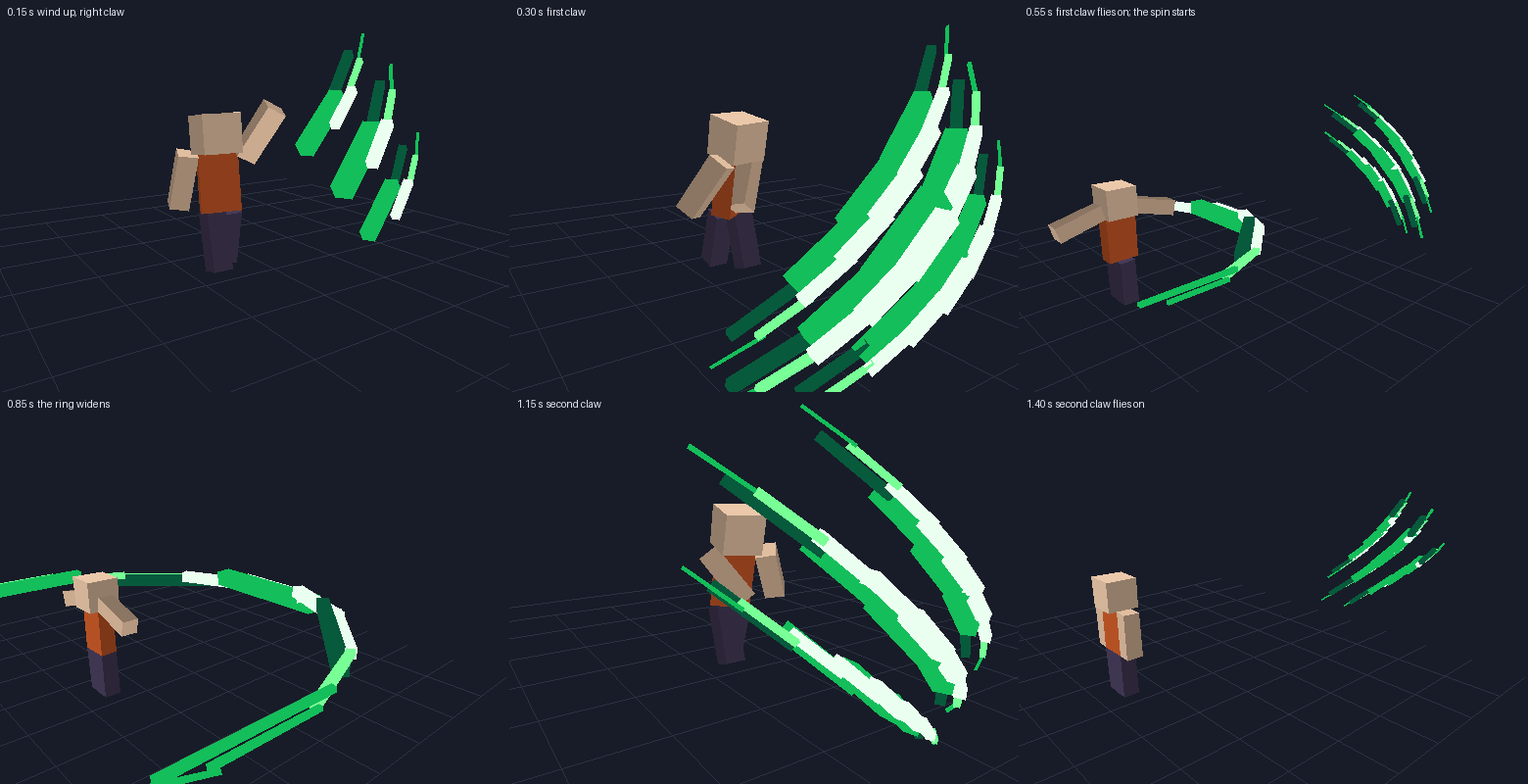
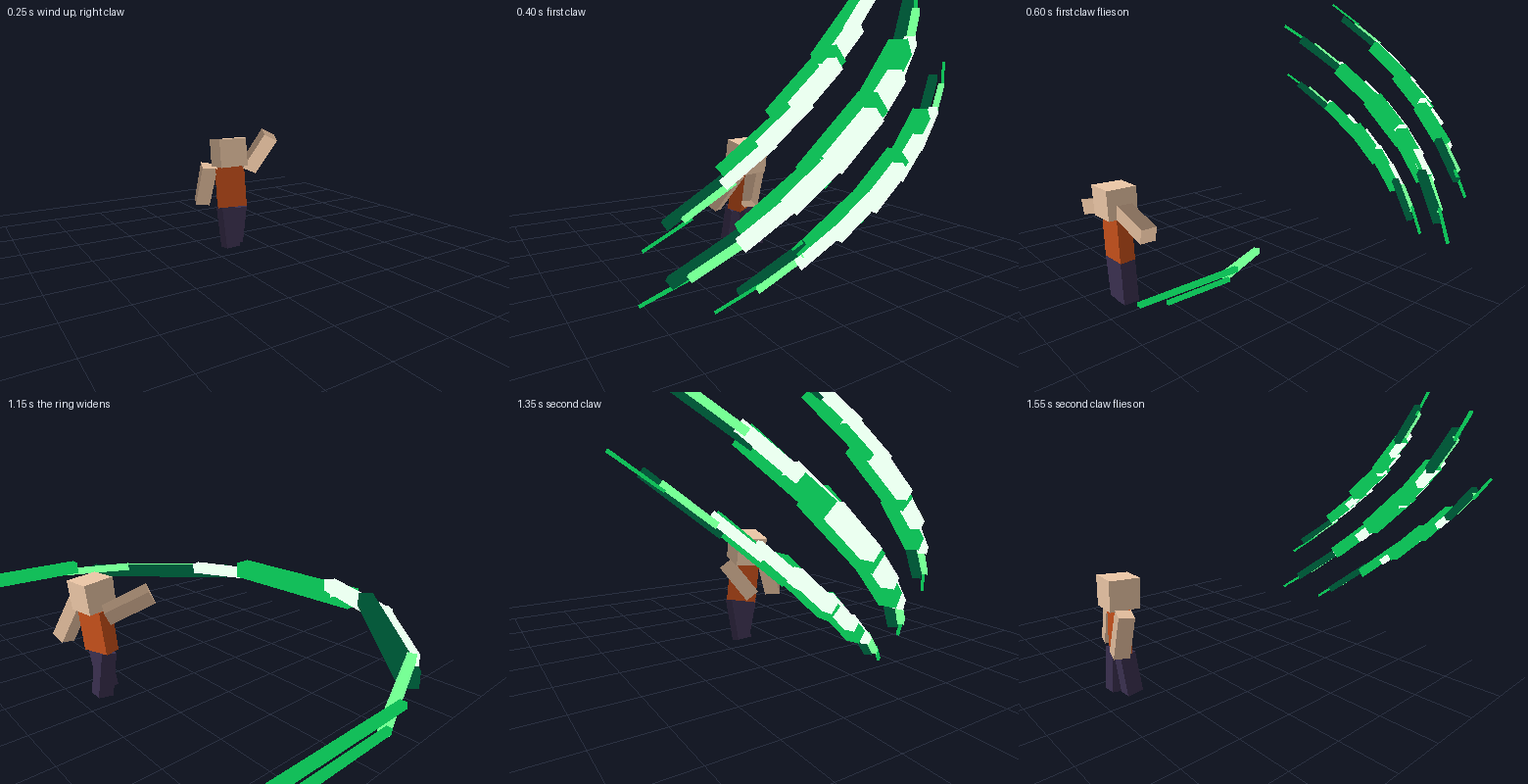
Dragon Claw: slow wind-up, fast strike, held follow-through; slashes 1.6x bigger (slashSize), hang then shoot forward

diff --git a/dragon_claw/animation/animation_only.code_block.js b/dragon_claw/animation/animation_only.code_block.js
@@ -1,46 +1,46 @@
 let playerId = myId
-api.animateEntity(playerId, {"animationDurationMs":150,"loop":false,"nodeAnimations":{"TorsoNode":{"timeline":[{"timeFraction":0,"rotation":[0,0,0]},{"timeFraction":1,"rotation":[-0.1,0.38,0]}]},"HeadMesh":{"timeline":[{"timeFraction":0,"rotation":[0,0,0]},{"timeFraction":1,"rotation":[0,-0.26,0]}]},"ArmRightMesh":{"timeline":[{"timeFraction":0,"rotation":[0,0,0]},{"timeFraction":1,"rotation":[-2.71,0,-0.52]}]},"ArmLeftMesh":{"timeline":[{"timeFraction":0,"rotation":[0,0,0]},{"timeFraction":1,"rotation":[0.35,0,0.21]}]},"LegLeftMesh":{"timeline":[{"timeFraction":0,"rotation":[0,0,0]},{"timeFraction":1,"rotation":[-0.21,0,0]}]},"LegRightMesh":{"timeline":[{"timeFraction":0,"rotation":[0,0,0]},{"timeFraction":1,"rotation":[0.21,0,0]}]}}}, 0, 1)
+api.animateEntity(playerId, {"animationDurationMs":250,"loop":false,"nodeAnimations":{"TorsoNode":{"timeline":[{"timeFraction":0,"rotation":[0,0,0]},{"timeFraction":1,"rotation":[-0.1,0.38,0]}]},"HeadMesh":{"timeline":[{"timeFraction":0,"rotation":[0,0,0]},{"timeFraction":1,"rotation":[0,-0.26,0]}]},"ArmRightMesh":{"timeline":[{"timeFraction":0,"rotation":[0,0,0]},{"timeFraction":1,"rotation":[-2.71,0,-0.52]}]},"ArmLeftMesh":{"timeline":[{"timeFraction":0,"rotation":[0,0,0]},{"timeFraction":1,"rotation":[0.35,0,0.21]}]},"LegLeftMesh":{"timeline":[{"timeFraction":0,"rotation":[0,0,0]},{"timeFraction":1,"rotation":[-0.21,0,0]}]},"LegRightMesh":{"timeline":[{"timeFraction":0,"rotation":[0,0,0]},{"timeFraction":1,"rotation":[0.21,0,0]}]}}}, 0, 1)
 
 addAnimation((speed) => {
     api.animateEntity(playerId, {"animationDurationMs":100,"loop":false,"nodeAnimations":{"TorsoNode":{"timeline":[{"timeFraction":0,"rotation":[-0.1,0.38,0]},{"timeFraction":1,"rotation":[0.24,-0.49,0]}]},"HeadMesh":{"timeline":[{"timeFraction":0,"rotation":[0,-0.26,0]},{"timeFraction":1,"rotation":[0,0.35,0]}]},"ArmRightMesh":{"timeline":[{"timeFraction":0,"rotation":[-2.71,0,-0.52]},{"timeFraction":1,"rotation":[-0.7,0,0.87]}]},"ArmLeftMesh":{"timeline":[{"timeFraction":0,"rotation":[0.35,0,0.21]},{"timeFraction":1,"rotation":[0.52,0,0.26]}]},"LegLeftMesh":{"timeline":[{"timeFraction":0,"rotation":[-0.21,0,0]},{"timeFraction":1,"rotation":[0.31,0,0]}]},"LegRightMesh":{"timeline":[{"timeFraction":0,"rotation":[0.21,0,0]},{"timeFraction":1,"rotation":[-0.31,0,0]}]}}}, 0, speed)
-}, 150, 1)
-
-addAnimation((speed) => {
-    api.animateEntity(playerId, {"animationDurationMs":150,"loop":false,"nodeAnimations":{"TorsoNode":{"timeline":[{"timeFraction":0,"rotation":[0.24,-0.49,0]},{"timeFraction":1,"rotation":[0.17,-0.66,0]}]},"HeadMesh":{"timeline":[{"timeFraction":0,"rotation":[0,0.35,0]},{"timeFraction":1,"rotation":[0,0.44,0]}]},"ArmRightMesh":{"timeline":[{"timeFraction":0,"rotation":[-0.7,0,0.87]},{"timeFraction":1,"rotation":[0.26,0,0.61]}]},"ArmLeftMesh":{"timeline":[{"timeFraction":0,"rotation":[0.52,0,0.26]},{"timeFraction":1,"rotation":[0.17,0,0.35]}]},"LegLeftMesh":{"timeline":[{"timeFraction":0,"rotation":[0.31,0,0]},{"timeFraction":1,"rotation":[0.31,0,0]}]},"LegRightMesh":{"timeline":[{"timeFraction":0,"rotation":[-0.31,0,0]},{"timeFraction":1,"rotation":[-0.31,0,0]}]}}}, 0, speed)
 }, 250, 1)
 
 addAnimation((speed) => {
-    api.animateEntity(playerId, {"animationDurationMs":50,"loop":false,"nodeAnimations":{"TorsoNode":{"timeline":[{"timeFraction":0,"rotation":[0.17,-0.66,0]},{"timeFraction":1,"rotation":[0,0,0]}]},"HeadMesh":{"timeline":[{"timeFraction":0,"rotation":[0,0.44,0]},{"timeFraction":1,"rotation":[0,0,0]}]},"ArmRightMesh":{"timeline":[{"timeFraction":0,"rotation":[0.26,0,0.61]},{"timeFraction":1,"rotation":[0,0,-1.31]}]},"ArmLeftMesh":{"timeline":[{"timeFraction":0,"rotation":[0.17,0,0.35]},{"timeFraction":1,"rotation":[0,0,1.31]}]},"LegLeftMesh":{"timeline":[{"timeFraction":0,"rotation":[0.31,0,0]},{"timeFraction":1,"rotation":[0,0,0]}]},"LegRightMesh":{"timeline":[{"timeFraction":0,"rotation":[-0.31,0,0]},{"timeFraction":1,"rotation":[0,0,0]}]}}}, 0, speed)
-}, 400, 1)
+    api.animateEntity(playerId, {"animationDurationMs":150,"loop":false,"nodeAnimations":{"TorsoNode":{"timeline":[{"timeFraction":0,"rotation":[0.24,-0.49,0]},{"timeFraction":1,"rotation":[0.17,-0.66,0]}]},"HeadMesh":{"timeline":[{"timeFraction":0,"rotation":[0,0.35,0]},{"timeFraction":1,"rotation":[0,0.44,0]}]},"ArmRightMesh":{"timeline":[{"timeFraction":0,"rotation":[-0.7,0,0.87]},{"timeFraction":1,"rotation":[0.26,0,0.61]}]},"ArmLeftMesh":{"timeline":[{"timeFraction":0,"rotation":[0.52,0,0.26]},{"timeFraction":1,"rotation":[0.17,0,0.35]}]},"LegLeftMesh":{"timeline":[{"timeFraction":0,"rotation":[0.31,0,0]},{"timeFraction":1,"rotation":[0.31,0,0]}]},"LegRightMesh":{"timeline":[{"timeFraction":0,"rotation":[-0.31,0,0]},{"timeFraction":1,"rotation":[-0.31,0,0]}]}}}, 0, speed)
+}, 350, 1)
+
+addAnimation((speed) => {
+    api.animateEntity(playerId, {"animationDurationMs":100,"loop":false,"nodeAnimations":{"TorsoNode":{"timeline":[{"timeFraction":0,"rotation":[0.17,-0.66,0]},{"timeFraction":1,"rotation":[0,0,0]}]},"HeadMesh":{"timeline":[{"timeFraction":0,"rotation":[0,0.44,0]},{"timeFraction":1,"rotation":[0,0,0]}]},"ArmRightMesh":{"timeline":[{"timeFraction":0,"rotation":[0.26,0,0.61]},{"timeFraction":1,"rotation":[0,0,-1.31]}]},"ArmLeftMesh":{"timeline":[{"timeFraction":0,"rotation":[0.17,0,0.35]},{"timeFraction":1,"rotation":[0,0,1.31]}]},"LegLeftMesh":{"timeline":[{"timeFraction":0,"rotation":[0.31,0,0]},{"timeFraction":1,"rotation":[0,0,0]}]},"LegRightMesh":{"timeline":[{"timeFraction":0,"rotation":[-0.31,0,0]},{"timeFraction":1,"rotation":[0,0,0]}]}}}, 0, speed)
+}, 500, 1)
 
 addAnimation((speed) => {
     api.animateEntity(playerId, {"animationDurationMs":100,"loop":false,"nodeAnimations":{"TorsoNode":{"timeline":[{"timeFraction":0,"rotation":[0,0,0]},{"timeFraction":1,"rotation":[0,1.57,0]}]},"ArmRightMesh":{"timeline":[{"timeFraction":0,"rotation":[0,0,-1.31]},{"timeFraction":1,"rotation":[0,0,-1.31]}]},"ArmLeftMesh":{"timeline":[{"timeFraction":0,"rotation":[0,0,1.31]},{"timeFraction":1,"rotation":[0,0,1.31]}]},"LegLeftMesh":{"timeline":[{"timeFraction":0,"rotation":[0,0,0]},{"timeFraction":1,"rotation":[0,1.57,0]}]},"LegRightMesh":{"timeline":[{"timeFraction":0,"rotation":[0,0,0]},{"timeFraction":1,"rotation":[0,1.57,0]}]}}}, 0, speed)
-}, 450, 1)
+}, 600, 1)
 
 addAnimation((speed) => {
     api.animateEntity(playerId, {"animationDurationMs":100,"loop":false,"nodeAnimations":{"TorsoNode":{"timeline":[{"timeFraction":0,"rotation":[0,1.57,0]},{"timeFraction":1,"rotation":[0,3.14,0]}]},"ArmRightMesh":{"timeline":[{"timeFraction":0,"rotation":[0,0,-1.31]},{"timeFraction":1,"rotation":[0,0,-1.31]}]},"ArmLeftMesh":{"timeline":[{"timeFraction":0,"rotation":[0,0,1.31]},{"timeFraction":1,"rotation":[0,0,1.31]}]},"LegLeftMesh":{"timeline":[{"timeFraction":0,"rotation":[0,1.57,0]},{"timeFraction":1,"rotation":[0,3.14,0]}]},"LegRightMesh":{"timeline":[{"timeFraction":0,"rotation":[0,1.57,0]},{"timeFraction":1,"rotation":[0,3.14,0]}]}}}, 0, speed)
-}, 550, 1)
+}, 700, 1)
 
 addAnimation((speed) => {
     api.animateEntity(playerId, {"animationDurationMs":100,"loop":false,"nodeAnimations":{"TorsoNode":{"timeline":[{"timeFraction":0,"rotation":[0,-3.14,0]},{"timeFraction":1,"rotation":[0,-1.57,0]}]},"ArmRightMesh":{"timeline":[{"timeFraction":0,"rotation":[0,0,-1.31]},{"timeFraction":1,"rotation":[0,0,-1.31]}]},"ArmLeftMesh":{"timeline":[{"timeFraction":0,"rotation":[0,0,1.31]},{"timeFraction":1,"rotation":[0,0,1.31]}]},"LegLeftMesh":{"timeline":[{"timeFraction":0,"rotation":[0,-3.14,0]},{"timeFraction":1,"rotation":[0,-1.57,0]}]},"LegRightMesh":{"timeline":[{"timeFraction":0,"rotation":[0,-3.14,0]},{"timeFraction":1,"rotation":[0,-1.57,0]}]}}}, 0, speed)
-}, 650, 1)
+}, 800, 1)
 
 addAnimation((speed) => {
     api.animateEntity(playerId, {"animationDurationMs":100,"loop":false,"nodeAnimations":{"TorsoNode":{"timeline":[{"timeFraction":0,"rotation":[0,-1.57,0]},{"timeFraction":1,"rotation":[0,0,0]}]},"ArmRightMesh":{"timeline":[{"timeFraction":0,"rotation":[0,0,-1.31]},{"timeFraction":1,"rotation":[0,0,-1.31]}]},"ArmLeftMesh":{"timeline":[{"timeFraction":0,"rotation":[0,0,1.31]},{"timeFraction":1,"rotation":[0,0,1.31]}]},"LegLeftMesh":{"timeline":[{"timeFraction":0,"rotation":[0,-1.57,0]},{"timeFraction":1,"rotation":[0,0,0]}]},"LegRightMesh":{"timeline":[{"timeFraction":0,"rotation":[0,-1.57,0]},{"timeFraction":1,"rotation":[0,0,0]}]}}}, 0, speed)
-}, 750, 1)
+}, 900, 1)
 
 addAnimation((speed) => {
-    api.animateEntity(playerId, {"animationDurationMs":150,"loop":false,"nodeAnimations":{"TorsoNode":{"timeline":[{"timeFraction":0,"rotation":[0,0,0]},{"timeFraction":1,"rotation":[-0.1,-0.38,0]}]},"HeadMesh":{"timeline":[{"timeFraction":0,"rotation":[0,0,0]},{"timeFraction":1,"rotation":[0,0.26,0]}]},"ArmRightMesh":{"timeline":[{"timeFraction":0,"rotation":[0,0,-1.31]},{"timeFraction":1,"rotation":[0.35,0,-0.21]}]},"ArmLeftMesh":{"timeline":[{"timeFraction":0,"rotation":[0,0,1.31]},{"timeFraction":1,"rotation":[-2.71,0,0.52]}]},"LegLeftMesh":{"timeline":[{"timeFraction":0,"rotation":[0,0,0]},{"timeFraction":1,"rotation":[0.21,0,0]}]},"LegRightMesh":{"timeline":[{"timeFraction":0,"rotation":[0,0,0]},{"timeFraction":1,"rotation":[-0.21,0,0]}]}}}, 0, speed)
-}, 850, 1)
-
-addAnimation((speed) => {
-    api.animateEntity(playerId, {"animationDurationMs":100,"loop":false,"nodeAnimations":{"TorsoNode":{"timeline":[{"timeFraction":0,"rotation":[-0.1,-0.38,0]},{"timeFraction":1,"rotation":[0.24,0.49,0]}]},"HeadMesh":{"timeline":[{"timeFraction":0,"rotation":[0,0.26,0]},{"timeFraction":1,"rotation":[0,-0.35,0]}]},"ArmRightMesh":{"timeline":[{"timeFraction":0,"rotation":[0.35,0,-0.21]},{"timeFraction":1,"rotation":[0.52,0,-0.26]}]},"ArmLeftMesh":{"timeline":[{"timeFraction":0,"rotation":[-2.71,0,0.52]},{"timeFraction":1,"rotation":[-0.7,0,-0.87]}]},"LegLeftMesh":{"timeline":[{"timeFraction":0,"rotation":[0.21,0,0]},{"timeFraction":1,"rotation":[-0.31,0,0]}]},"LegRightMesh":{"timeline":[{"timeFraction":0,"rotation":[-0.21,0,0]},{"timeFraction":1,"rotation":[0.31,0,0]}]}}}, 0, speed)
+    api.animateEntity(playerId, {"animationDurationMs":200,"loop":false,"nodeAnimations":{"TorsoNode":{"timeline":[{"timeFraction":0,"rotation":[0,0,0]},{"timeFraction":1,"rotation":[-0.1,-0.38,0]}]},"HeadMesh":{"timeline":[{"timeFraction":0,"rotation":[0,0,0]},{"timeFraction":1,"rotation":[0,0.26,0]}]},"ArmRightMesh":{"timeline":[{"timeFraction":0,"rotation":[0,0,-1.31]},{"timeFraction":1,"rotation":[0.35,0,-0.21]}]},"ArmLeftMesh":{"timeline":[{"timeFraction":0,"rotation":[0,0,1.31]},{"timeFraction":1,"rotation":[-2.71,0,0.52]}]},"LegLeftMesh":{"timeline":[{"timeFraction":0,"rotation":[0,0,0]},{"timeFraction":1,"rotation":[0.21,0,0]}]},"LegRightMesh":{"timeline":[{"timeFraction":0,"rotation":[0,0,0]},{"timeFraction":1,"rotation":[-0.21,0,0]}]}}}, 0, speed)
 }, 1000, 1)
 
 addAnimation((speed) => {
-    api.animateEntity(playerId, {"animationDurationMs":150,"loop":false,"nodeAnimations":{"TorsoNode":{"timeline":[{"timeFraction":0,"rotation":[0.24,0.49,0]},{"timeFraction":1,"rotation":[0.17,0.66,0]}]},"HeadMesh":{"timeline":[{"timeFraction":0,"rotation":[0,-0.35,0]},{"timeFraction":1,"rotation":[0,-0.44,0]}]},"ArmRightMesh":{"timeline":[{"timeFraction":0,"rotation":[0.52,0,-0.26]},{"timeFraction":1,"rotation":[0.17,0,-0.35]}]},"ArmLeftMesh":{"timeline":[{"timeFraction":0,"rotation":[-0.7,0,-0.87]},{"timeFraction":1,"rotation":[0.26,0,-0.61]}]},"LegLeftMesh":{"timeline":[{"timeFraction":0,"rotation":[-0.31,0,0]},{"timeFraction":1,"rotation":[-0.31,0,0]}]},"LegRightMesh":{"timeline":[{"timeFraction":0,"rotation":[0.31,0,0]},{"timeFraction":1,"rotation":[0.31,0,0]}]}}}, 0, speed)
-}, 1100, 1)
+    api.animateEntity(playerId, {"animationDurationMs":100,"loop":false,"nodeAnimations":{"TorsoNode":{"timeline":[{"timeFraction":0,"rotation":[-0.1,-0.38,0]},{"timeFraction":1,"rotation":[0.24,0.49,0]}]},"HeadMesh":{"timeline":[{"timeFraction":0,"rotation":[0,0.26,0]},{"timeFraction":1,"rotation":[0,-0.35,0]}]},"ArmRightMesh":{"timeline":[{"timeFraction":0,"rotation":[0.35,0,-0.21]},{"timeFraction":1,"rotation":[0.52,0,-0.26]}]},"ArmLeftMesh":{"timeline":[{"timeFraction":0,"rotation":[-2.71,0,0.52]},{"timeFraction":1,"rotation":[-0.7,0,-0.87]}]},"LegLeftMesh":{"timeline":[{"timeFraction":0,"rotation":[0.21,0,0]},{"timeFraction":1,"rotation":[-0.31,0,0]}]},"LegRightMesh":{"timeline":[{"timeFraction":0,"rotation":[-0.21,0,0]},{"timeFraction":1,"rotation":[0.31,0,0]}]}}}, 0, speed)
+}, 1200, 1)
 
 addAnimation((speed) => {
-    api.animateEntity(playerId, {"animationDurationMs":100,"loop":false,"nodeAnimations":{"TorsoNode":{"timeline":[{"timeFraction":0,"rotation":[0.17,0.66,0]},{"timeFraction":1,"rotation":[0,0,0]}]},"HeadMesh":{"timeline":[{"timeFraction":0,"rotation":[0,-0.44,0]},{"timeFraction":1,"rotation":[0,0,0]}]},"ArmRightMesh":{"timeline":[{"timeFraction":0,"rotation":[0.17,0,-0.35]},{"timeFraction":1,"rotation":[0,0,0]}]},"ArmLeftMesh":{"timeline":[{"timeFraction":0,"rotation":[0.26,0,-0.61]},{"timeFraction":1,"rotation":[0,0,0]}]},"LegLeftMesh":{"timeline":[{"timeFraction":0,"rotation":[-0.31,0,0]},{"timeFraction":1,"rotation":[0,0,0]}]},"LegRightMesh":{"timeline":[{"timeFraction":0,"rotation":[0.31,0,0]},{"timeFraction":1,"rotation":[0,0,0]}]}}}, 0, speed)
-}, 1250, 1)
+    api.animateEntity(playerId, {"animationDurationMs":150,"loop":false,"nodeAnimations":{"TorsoNode":{"timeline":[{"timeFraction":0,"rotation":[0.24,0.49,0]},{"timeFraction":1,"rotation":[0.17,0.66,0]}]},"HeadMesh":{"timeline":[{"timeFraction":0,"rotation":[0,-0.35,0]},{"timeFraction":1,"rotation":[0,-0.44,0]}]},"ArmRightMesh":{"timeline":[{"timeFraction":0,"rotation":[0.52,0,-0.26]},{"timeFraction":1,"rotation":[0.17,0,-0.35]}]},"ArmLeftMesh":{"timeline":[{"timeFraction":0,"rotation":[-0.7,0,-0.87]},{"timeFraction":1,"rotation":[0.26,0,-0.61]}]},"LegLeftMesh":{"timeline":[{"timeFraction":0,"rotation":[-0.31,0,0]},{"timeFraction":1,"rotation":[-0.31,0,0]}]},"LegRightMesh":{"timeline":[{"timeFraction":0,"rotation":[0.31,0,0]},{"timeFraction":1,"rotation":[0.31,0,0]}]}}}, 0, speed)
+}, 1300, 1)
+
+addAnimation((speed) => {
+    api.animateEntity(playerId, {"animationDurationMs":150,"loop":false,"nodeAnimations":{"TorsoNode":{"timeline":[{"timeFraction":0,"rotation":[0.17,0.66,0]},{"timeFraction":1,"rotation":[0,0,0]}]},"HeadMesh":{"timeline":[{"timeFraction":0,"rotation":[0,-0.44,0]},{"timeFraction":1,"rotation":[0,0,0]}]},"ArmRightMesh":{"timeline":[{"timeFraction":0,"rotation":[0.17,0,-0.35]},{"timeFraction":1,"rotation":[0,0,0]}]},"ArmLeftMesh":{"timeline":[{"timeFraction":0,"rotation":[0.26,0,-0.61]},{"timeFraction":1,"rotation":[0,0,0]}]},"LegLeftMesh":{"timeline":[{"timeFraction":0,"rotation":[-0.31,0,0]},{"timeFraction":1,"rotation":[0,0,0]}]},"LegRightMesh":{"timeline":[{"timeFraction":0,"rotation":[0.31,0,0]},{"timeFraction":1,"rotation":[0,0,0]}]}}}, 0, speed)
+}, 1450, 1)

diff --git a/dragon_claw/world_code.js b/dragon_claw/world_code.js
@@ -3,6 +3,7 @@ var CLAW_CFG = {
   item: "",
   range: 10,
   spinRange: 6,
+  slashSize: 1.6,
   damage: 18,
   spinDamage: 10,
   knockback: 6,
@@ -35,30 +36,30 @@ var CLAW_SND = {
 }
 
 var CLAW_STEP = {
-  slash1: 3,
-  drop1: 14,
-  spin: 9,
-  dropSpin: 20,
-  slash2: 20,
-  drop2: 31,
-  rest: 27,
-  end: 33,
+  slash1: 6,
+  drop1: 17,
+  spin: 12,
+  dropSpin: 25,
+  slash2: 25,
+  drop2: 36,
+  rest: 32,
+  end: 38,
 }
 
 var CLAW_POSE = [
   [0, {}],
-  [3, { TorsoNode: [-6, 22, 0], HeadMesh: [0, -15, 0], ArmRightMesh: [-155, 0, -30], ArmLeftMesh: [20, 0, 12], LegRightMesh: [12, 0, 0], LegLeftMesh: [-12, 0, 0] }],
-  [5, { TorsoNode: [14, -28, 0], HeadMesh: [0, 20, 0], ArmRightMesh: [-40, 0, 50], ArmLeftMesh: [30, 0, 15], LegRightMesh: [-18, 0, 0], LegLeftMesh: [18, 0, 0] }],
-  [8, { TorsoNode: [10, -38, 0], HeadMesh: [0, 25, 0], ArmRightMesh: [15, 0, 35], ArmLeftMesh: [10, 0, 20], LegRightMesh: [-18, 0, 0], LegLeftMesh: [18, 0, 0] }],
-  [9, { ArmRightMesh: [0, 0, -75], ArmLeftMesh: [0, 0, 75] }, 0],
-  [11, { ArmRightMesh: [0, 0, -75], ArmLeftMesh: [0, 0, 75] }, 90],
-  [13, { ArmRightMesh: [0, 0, -75], ArmLeftMesh: [0, 0, 75] }, 180],
-  [15, { ArmRightMesh: [0, 0, -75], ArmLeftMesh: [0, 0, 75] }, 270],
-  [17, { ArmRightMesh: [0, 0, -75], ArmLeftMesh: [0, 0, 75] }, 360],
-  [20, { TorsoNode: [-6, -22, 0], HeadMesh: [0, 15, 0], ArmLeftMesh: [-155, 0, 30], ArmRightMesh: [20, 0, -12], LegLeftMesh: [12, 0, 0], LegRightMesh: [-12, 0, 0] }, 360],
-  [22, { TorsoNode: [14, 28, 0], HeadMesh: [0, -20, 0], ArmLeftMesh: [-40, 0, -50], ArmRightMesh: [30, 0, -15], LegLeftMesh: [-18, 0, 0], LegRightMesh: [18, 0, 0] }, 360],
-  [25, { TorsoNode: [10, 38, 0], HeadMesh: [0, -25, 0], ArmLeftMesh: [15, 0, -35], ArmRightMesh: [10, 0, -20], LegLeftMesh: [-18, 0, 0], LegRightMesh: [18, 0, 0] }, 360],
-  [27, {}, 360],
+  [5, { TorsoNode: [-6, 22, 0], HeadMesh: [0, -15, 0], ArmRightMesh: [-155, 0, -30], ArmLeftMesh: [20, 0, 12], LegRightMesh: [12, 0, 0], LegLeftMesh: [-12, 0, 0] }],
+  [7, { TorsoNode: [14, -28, 0], HeadMesh: [0, 20, 0], ArmRightMesh: [-40, 0, 50], ArmLeftMesh: [30, 0, 15], LegRightMesh: [-18, 0, 0], LegLeftMesh: [18, 0, 0] }],
+  [10, { TorsoNode: [10, -38, 0], HeadMesh: [0, 25, 0], ArmRightMesh: [15, 0, 35], ArmLeftMesh: [10, 0, 20], LegRightMesh: [-18, 0, 0], LegLeftMesh: [18, 0, 0] }],
+  [12, { ArmRightMesh: [0, 0, -75], ArmLeftMesh: [0, 0, 75] }, 0],
+  [14, { ArmRightMesh: [0, 0, -75], ArmLeftMesh: [0, 0, 75] }, 90],
+  [16, { ArmRightMesh: [0, 0, -75], ArmLeftMesh: [0, 0, 75] }, 180],
+  [18, { ArmRightMesh: [0, 0, -75], ArmLeftMesh: [0, 0, 75] }, 270],
+  [20, { ArmRightMesh: [0, 0, -75], ArmLeftMesh: [0, 0, 75] }, 360],
+  [24, { TorsoNode: [-6, -22, 0], HeadMesh: [0, 15, 0], ArmLeftMesh: [-155, 0, 30], ArmRightMesh: [20, 0, -12], LegLeftMesh: [12, 0, 0], LegRightMesh: [-12, 0, 0] }, 360],
+  [26, { TorsoNode: [14, 28, 0], HeadMesh: [0, -20, 0], ArmLeftMesh: [-40, 0, -50], ArmRightMesh: [30, 0, -15], LegLeftMesh: [-18, 0, 0], LegRightMesh: [18, 0, 0] }, 360],
+  [29, { TorsoNode: [10, 38, 0], HeadMesh: [0, -25, 0], ArmLeftMesh: [15, 0, -35], ArmRightMesh: [10, 0, -20], LegLeftMesh: [-18, 0, 0], LegRightMesh: [18, 0, 0] }, 360],
+  [32, {}, 360],
 ]
 
 var CLAW_NODES = ["TorsoNode", "HeadMesh", "ArmRightMesh", "ArmLeftMesh", "LegLeftMesh", "LegRightMesh"]
@@ -235,9 +236,12 @@ function clawDrop(c, tag) {
 
 var clawReach = (around) => Math.min(CLAW_MAX_RANGE, around ? CLAW_CFG.spinRange : CLAW_CFG.range)
 
+var clawSize = () => Math.max(0.5, Math.min(3, CLAW_CFG.slashSize))
+var clawNear = () => 0.9 + 1.3 * clawSize()
+
 function clawFront(age) {
-  var fly = Math.max(0, age - 2) / 8
-  return Math.min(1, fly) * Math.max(0, clawReach(false) - 2.6)
+  var fly = 1 - Math.min(1, Math.max(0, age - 3) / 7)
+  return (1 - fly * fly) * Math.max(0, clawReach(false) - clawNear())
 }
 
 function clawPoint(c, side, arc, u, drift, back) {
@@ -245,10 +249,11 @@ function clawPoint(c, side, arc, u, drift, back) {
   var S = clawNorm(clawAdd(clawAdd([0, 0, 0], c.R, -side), [0, 1, 0], -0.9))
   var W = clawNorm(clawAdd(clawAdd([0, 0, 0], c.R, 0.9 * side), [0, 1, 0], -1))
   var x = u * m[1]
-  var at = clawAdd(c.from, [0, 1, 0], 1.15)
-  at = clawAdd(at, S, x * 1.9)
-  at = clawAdd(at, W, m[0] * (1 - 0.22 * u))
-  at = clawAdd(at, c.F, 1.5 + 0.7 * (1 - x * x) + drift - (back || 0))
+  var k = clawSize()
+  var at = clawAdd(c.from, [0, 1, 0], 0.55 + 1.1 * k)
+  at = clawAdd(at, S, x * 1.9 * k)
+  at = clawAdd(at, W, m[0] * (1 - 0.22 * u) * k)
+  at = clawAdd(at, c.F, 0.9 + 0.6 * k + 0.7 * k * (1 - x * x) + drift - (back || 0))
   var t = clawNorm(clawAdd(clawAdd([0, 0, 0], S, 1.9), c.F, -1.4 * x))
   return { at: at, t: t }
 }
@@ -256,28 +261,30 @@ function clawPoint(c, side, arc, u, drift, back) {
 function clawSlash(c, tag, side, age) {
   var rows = CLAW_MESH.talon
   var glow = CLAW_MESH.glow
-  var part = Math.min(1, (age + 1) / 3)
+  var part = Math.min(1, (age + 1) / 2)
   var drift = clawFront(age)
+  var k = clawSize()
   for (var arc = 0; arc < 3; arc++) {
     var m = CLAW_MESH.mark[arc]
     var shown = Math.round(rows.length * part)
     for (var i = 0; i < shown; i++) {
       var q = clawPoint(c, side, arc, rows[i][0], drift)
-      clawBox(c, tag + arc + "_" + i, rows[i][1] * m[2], 0.6 * m[1], rows[i][2], q.at, q.t)
+      clawBox(c, tag + arc + "_" + i, rows[i][1] * m[2] * k, 0.6 * m[1] * k, rows[i][2], q.at, q.t)
     }
     for (var g = 0; g < Math.round(glow.length * part); g++) {
       var h = clawPoint(c, side, arc, glow[g][0], drift, 0.2)
-      clawBox(c, tag + arc + "g" + g, glow[g][1] * m[2], 0.9 * m[1], glow[g][2], h.at, h.t)
+      clawBox(c, tag + arc + "g" + g, glow[g][1] * m[2] * k, 0.9 * m[1] * k, glow[g][2], h.at, h.t)
     }
     var tip = clawPoint(c, side, arc, rows[shown - 1][0], drift)
-    if (age < 3) clawFx(tip.at, [tip.t[0] * 3, tip.t[1] * 3, tip.t[2] * 3], "core", "edge", 0.28, 0.5, "critical_hit", 2, 0.1)
+    if (age < 2) clawFx(tip.at, [tip.t[0] * 4, tip.t[1] * 4, tip.t[2] * 4], "white", "core", 0.3 * k, 0.5, "critical_hit", 4, 0.15)
+    else if (age < 3) clawFx(clawPoint(c, side, arc, 0, drift).at, null, "white", "core", 0.3 * k, 0.4, "glint", 3, 0.4 * k)
     else {
       var u = ((age * 5 + arc * 3) % 9) / 4 - 1
-      clawFx(clawPoint(c, side, arc, u, drift, 0.5).at, [-c.F[0], 0.1, -c.F[2]], "core", "edge", 0.26, 0.5, "glint", 2, 0.15)
-      clawFx(clawPoint(c, side, arc, -u, drift, 0.9).at, null, "edge", "deep", 0.34, 0.6, "square_particle", 1, 0.1)
+      clawFx(clawPoint(c, side, arc, u, drift, 0.5).at, [-c.F[0], 0.1, -c.F[2]], "core", "edge", 0.26 * k, 0.5, "glint", 2, 0.15)
+      clawFx(clawPoint(c, side, arc, -u, drift, 0.9).at, null, "edge", "deep", 0.34 * k, 0.6, "square_particle", 1, 0.1)
     }
   }
-  clawSweep(c, tag, false, 2.9 + drift)
+  clawSweep(c, tag, false, clawNear() + 0.3 + drift)
 }
 
 function clawBurst(c, side, age) {
@@ -285,7 +292,7 @@ function clawBurst(c, side, age) {
   for (var arc = 0; arc < 3; arc++) {
     for (var i = 0; i < 9; i += 2) {
       var q = clawPoint(c, side, arc, CLAW_MESH.talon[i][0], drift)
-      clawFx(q.at, [c.F[0] * 2.5, 0.3, c.F[2] * 2.5], i % 4 ? "core" : "white", "edge", 0.34, 0.55, i % 4 ? "glint" : "critical_hit", 2, 0.1)
+      clawFx(q.at, [c.F[0] * 2.5, 0.3, c.F[2] * 2.5], i % 4 ? "core" : "white", "edge", 0.34 * clawSize(), 0.55, i % 4 ? "glint" : "critical_hit", 2, 0.1)
     }
   }
 }
@@ -294,7 +301,7 @@ function clawRing(c, age) {
   var rows = CLAW_MESH.ring
   var shown = Math.min(rows.length, 2 + age * 2)
   var mid = clawAdd(c.pos, [0, 1, 0], 1)
-  var grow = Math.max(0, Math.min(1, (age - 6) / 4))
+  var grow = Math.max(0, Math.min(1, (age - 8) / 4))
   var rad = 2.3 + grow * Math.max(0, clawReach(true) - 2.6)
   var long = ((Math.PI * 2 * rad) / rows.length) * 1.1
   for (var i = 0; i < shown; i++) {
@@ -308,7 +315,7 @@ function clawRing(c, age) {
   }
   var lead = c.turn + (shown / rows.length) * Math.PI * 2 + age * 0.9
   clawFx([mid[0] + Math.cos(lead) * rad, mid[1], mid[2] + Math.sin(lead) * rad], [-Math.sin(lead) * 4, 0.4, Math.cos(lead) * 4], "white", "core", 0.3, 0.5, "critical_hit", 3, 0.12)
-  if (age === 6) clawWave(c, mid, rad)
+  if (age === 8) clawWave(c, mid, rad)
   clawSweep(c, "ring", true, rad + 0.6)
 }
 
@@ -359,7 +366,7 @@ function clawSweep(c, tag, around, far) {
       } else {
         var along = v[0] * c.F[0] + v[2] * c.F[2]
         var side = v[0] * c.R[0] + v[2] * c.R[2]
-        if (along < -0.5 || along > reach || Math.abs(side) > 2.2 || Math.abs(v[1]) > 2.4) continue
+        if (along < -0.5 || along > reach || Math.abs(side) > 1.2 + clawSize() || Math.abs(v[1]) > 1.4 + clawSize()) continue
         flat = c.F
       }
       done[ids[i]] = 1

diff --git a/dragon_claw/tools/render.py b/dragon_claw/tools/render.py
@@ -96,10 +96,10 @@ def draw(tick, eye, title):
     d.text((8, 6), title, fill=(230, 235, 245))
     return img
 
-T = [(3, 'wind up, right claw'), (6, 'first claw'), (11, 'first claw flies on; the spin starts'), (17, 'the ring widens'), (23, 'second claw'), (28, 'second claw flies on')]
+T = [(5, 'wind up, right claw'), (8, 'first claw'), (12, 'first claw flies on'), (23, 'the ring widens'), (27, 'second claw'), (31, 'second claw flies on')]
 sheet = Image.new('RGB', (W * 3, H * 2))
 for i, (tick, title) in enumerate(T):
-    eye = (PLAYER[0] + 7.5, PLAYER[1] + 4.2, PLAYER[2] - 3.5) if i in (2, 3, 5) else (PLAYER[0] + 3.2, PLAYER[1] + 2.4, PLAYER[2] + 5.6)
+    eye = (PLAYER[0] + 7.5, PLAYER[1] + 4.2, PLAYER[2] - 3.5) if i in (2, 3, 5) else (PLAYER[0] + 4.6, PLAYER[1] + 3.2, PLAYER[2] + 8)
     sheet.paste(draw(tick, eye, '%.2f s  %s' % (tick / 20, title)), ((i % 3) * W, (i // 3) * H))
 sheet.save(sys.argv[2])
 print('wrote', sys.argv[2])

diff --git a/dragon_claw/README.md b/dragon_claw/README.md
@@ -16,26 +16,31 @@ right-click handlers working. Then type `!claw`.
 
 From other code: `dragonClaw(playerId)`.
 
-## What happens (1.7 s)
+## What happens (1.95 s)
 
 | Seconds | Player animation | Meshes and particles | Hit |
 |---|---|---|---|
-| 0.00–0.45 | Right arm goes up and back, then rakes down across the body | Claws appear on both hands (node meshes). Three slash marks are drawn in front, top to bottom, with sparks at the tips | |
-| 0.25–0.70 | | The three marks fly forward as far as `range` (10 blocks), trailing sparks, and burst at the end | Everything they pass, once |
-| 0.45–0.85 | Arms out, full turn in four quarter steps; the legs turn with the body | A ring is drawn round the player as they turn | |
-| 0.75–1.00 | | The ring widens out to `spinRange` (6 blocks); a ring of 18 particles flies outward | Everything the ring reaches, once |
-| 0.85–1.35 | Left arm goes up and back, then rakes down the other way | Three more slash marks, crossing the first | |
-| 1.10–1.55 | | These fly forward too | Everything they pass, once |
-| 1.35–1.50 | Pose is reset | Claws are taken off | |
+| 0.00–0.25 | Slow wind-up: right arm goes up and back | Claws appear on both hands (node meshes) | |
+| 0.25–0.35 | Fast strike: the arm rakes down across the body | From 0.30: three slash marks, 4.8 blocks tall, drawn top to bottom in 2 ticks with sparks at the tips | What stands right in front |
+| 0.35–0.60 | Follow-through, held for a moment | The marks hang for one tick with a flash, then shoot forward, fast at first and slowing down, as far as `range` (10 blocks) | Everything they pass, once |
+| 0.60–1.00 | Arms out, full turn in four quarter steps; the legs turn with the body | A ring is drawn round the player as they turn | |
+| 1.00–1.25 | Second wind-up: left arm goes up and back | The ring widens out to `spinRange` (6 blocks); a ring of 18 particles flies outward | Everything the ring reaches, once |
+| 1.25–1.35 | Fast strike the other way | Three more slash marks, crossing the first | |
+| 1.35–1.80 | Follow-through, then back to rest at 1.60 | These hang and fly forward too | Everything they pass, once |
+| 1.60–1.75 | Pose is reset | Claws are taken off | |
 
-At most 57 mesh entities at once and 82 api calls in one tick.
+At most 57 mesh entities at once and 100 api calls in one tick.
+
+The timing is in two tables: `CLAW_POSE` (first number of each row = the tick
+that pose is reached, 20 ticks a second) for the player, and `CLAW_STEP` for
+the meshes. The marks start one tick into each strike.
 
 ## Range
 
 `range` is how far the claw marks fly (10) and `spinRange` how far the ring
 widens (6). `CLAW_MAX_RANGE` is 15: whatever the two are set to, nothing
-further than 15 blocks is reached or hit. A claw mark hits what is within 2.2
-blocks to either side of its path.
+further than 15 blocks is reached or hit. A claw mark hits what is within 2.8
+blocks to either side of its path (it grows with `slashSize`).
 
 ## The animation
 
@@ -72,6 +77,7 @@ themselves: send the changed file and the numbers can be carried over.
 | `item` | Name of a held item that casts it on right click, `""` for none |
 | `range` | Blocks the claw marks fly forward (15 at most) |
 | `spinRange` | Blocks the ring of the spin widens to (15 at most) |
+| `slashSize` | Size of the claw slashes (1.6; 1 is the old size, 0.5 to 3). The lane they hit is 1.2 + this wide to either side |
 | `damage`, `spinDamage` | Damage of each claw and of the spin |
 | `knockback` | Push on everything that is hit |
 | `lunge` | Push forward on the player at each claw, 0 for none |
